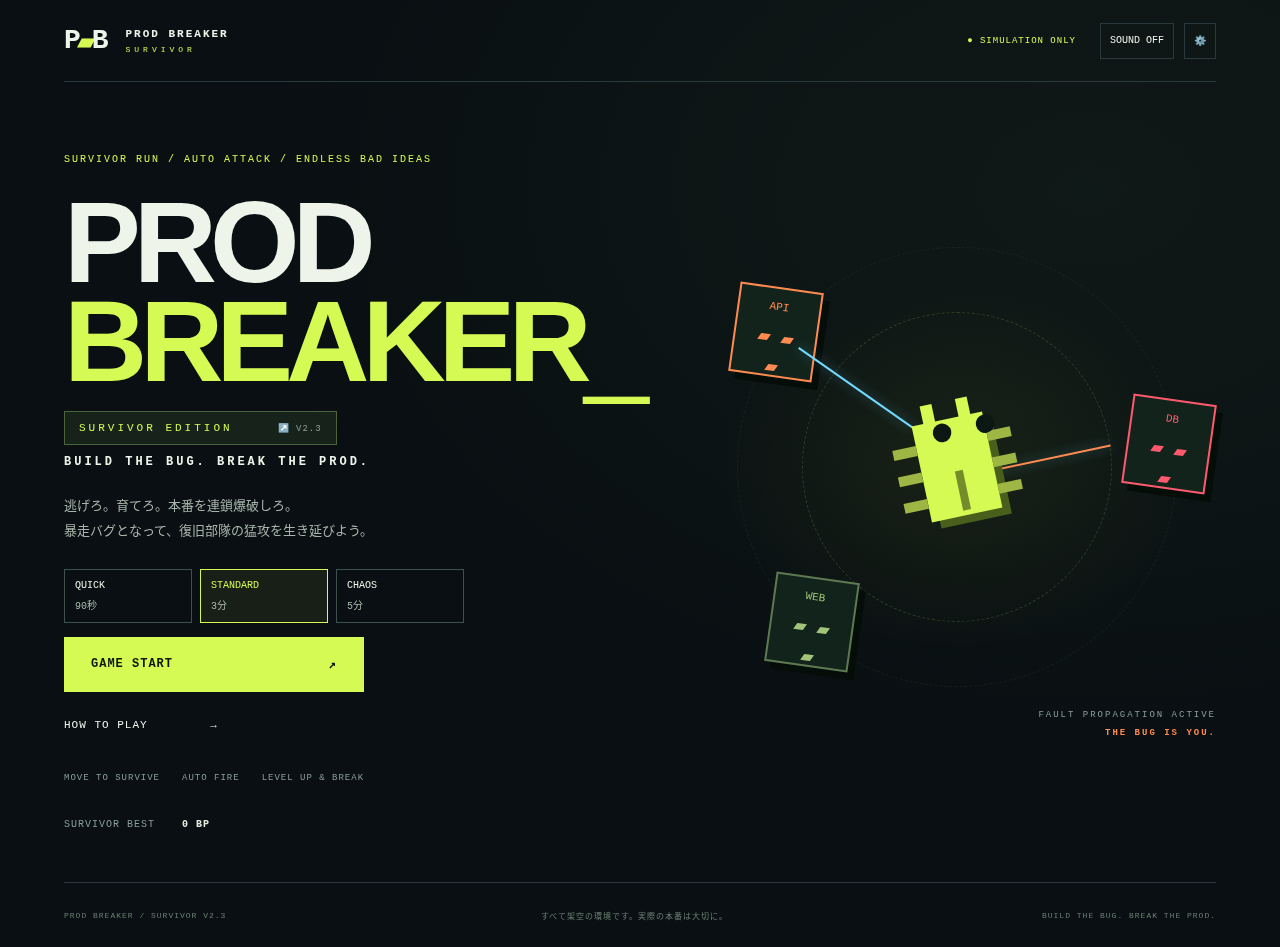
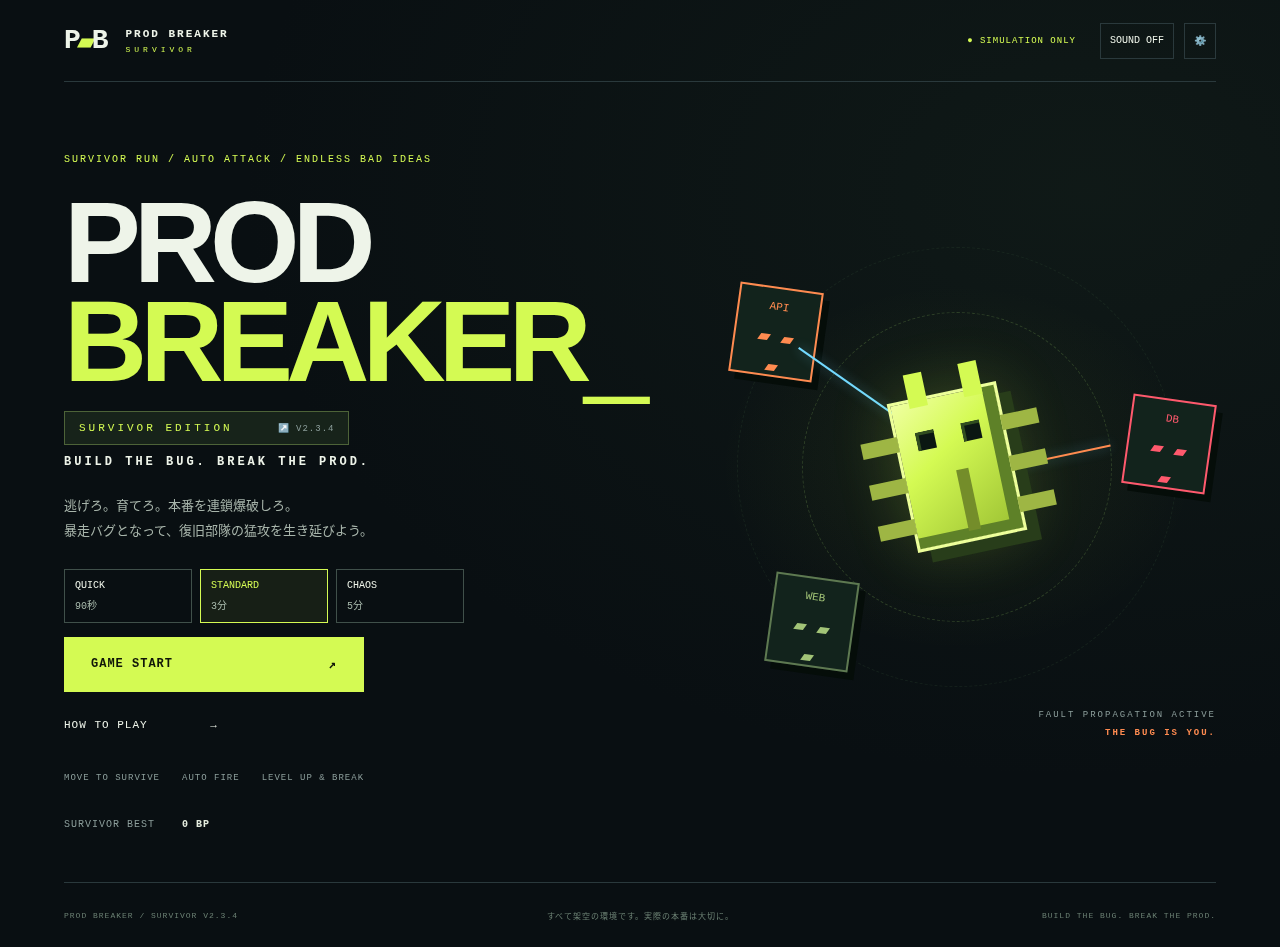
Feature the bug mascot on mobile and desktop home screens

Changed region(s): [[0.6562, 0.3675, 0.8438, 0.6125], [0.4375, 0.9493, 0.5625, 0.9799]]

diff --git a/src/app/globals.css b/src/app/globals.css
@@ -1532,3 +1532,107 @@ footer {
     margin: 3px 0;
   }
 }
+/* The same mischievous bug that appears in the arena is our home-screen mascot. */
+.pixel-bug {
+  background: linear-gradient(145deg, #efffa0 0%, #d4fa53 38%, #9abf32 100%);
+  border: 2px solid #edff9a;
+  box-shadow:
+    inset -8px -7px 0 #5e8128,
+    8px 8px 0 #283d1a,
+    0 0 42px #c7f94b33;
+  animation: mascot-float 3.6s ease-in-out infinite;
+}
+.pixel-bug b {
+  text-shadow: 0 1px #ecffad;
+}
+@keyframes mascot-float {
+  0%,
+  100% {
+    translate: 0 0;
+  }
+  50% {
+    translate: 0 -8px;
+  }
+}
+@media (max-width: 700px), (hover: none) and (pointer: coarse) {
+  .survivor .title-screen .hero-art {
+    display: block;
+    width: 112px;
+    height: 112px;
+    top: auto;
+    right: 8px;
+    bottom: 28px;
+    background: radial-gradient(circle, #c9ed4240, transparent 70%);
+    opacity: 1;
+  }
+  .survivor .title-screen .hero-art .orbit,
+  .survivor .title-screen .hero-art .hero-server,
+  .survivor .title-screen .hero-art .hero-beam,
+  .survivor .title-screen .hero-art .hero-caption {
+    display: none;
+  }
+  .survivor .title-screen .pixel-bug {
+    scale: none;
+    transform-origin: center;
+    transform: translate(-50%, -50%) rotate(-10deg) scale(0.72);
+  }
+}
+@media (hover: none) and (pointer: coarse) and (orientation: landscape) and (max-height: 500px) {
+  .survivor .title-screen .hero-art {
+    width: 100px;
+    height: 100px;
+    right: 8px;
+    bottom: 4px;
+  }
+  .survivor .title-screen .pixel-bug {
+    transform: translate(-50%, -50%) rotate(-10deg) scale(0.6);
+  }
+}
+.pixel-bug b {
+  display: block;
+  top: 0;
+  left: 0;
+  width: 100%;
+  height: 100%;
+  font-size: 0;
+  text-shadow: none;
+}
+.pixel-bug b::before,
+.pixel-bug b::after {
+  content: "";
+  position: absolute;
+  top: 20px;
+  left: 12px;
+  width: 12px;
+  height: 12px;
+  background: #0b1712;
+  box-shadow: inset 2px 2px #314d20;
+}
+.pixel-bug b::after {
+  left: 42px;
+}
+@media (max-width: 700px), (hover: none) and (pointer: coarse) {
+  .survivor .title-screen .hero-art {
+    width: 150px;
+    height: 150px;
+    bottom: max(28px, calc(30svh - 142px));
+  }
+  .survivor .title-screen .pixel-bug {
+    transform: translate(-50%, -50%) rotate(-10deg) scale(0.95);
+  }
+}
+@media (hover: none) and (pointer: coarse) and (orientation: landscape) and (max-height: 500px) {
+  .survivor .title-screen .hero-art {
+    width: 130px;
+    height: 130px;
+    bottom: 0;
+  }
+  .survivor .title-screen .pixel-bug {
+    transform: translate(-50%, -50%) rotate(-10deg) scale(0.75);
+  }
+}
+@media (min-width: 701px) and (hover: hover) {
+  .hero-art > .pixel-bug {
+    transform: translate(-50%, -50%) rotate(-12deg) scale(1.55);
+  }
+}

diff --git a/tests/e2e/game.spec.ts b/tests/e2e/game.spec.ts
@@ -406,6 +406,32 @@ test("home controls fit without vertical scrolling on compact and landscape phon
     await page.goto("/?seed=42");
     await page.screenshot({ path: `test-results/home-${viewport.width}.png` });
     await expect(
+      page.getByRole("img", { name: "ゲームの主人公、暴走バグ" }),
+    ).toBeVisible();
+    const mascot = await page.locator(".pixel-bug").boundingBox();
+    expect(mascot).not.toBeNull();
+    expect(mascot!.x).toBeGreaterThanOrEqual(0);
+    expect(mascot!.y).toBeGreaterThanOrEqual(0);
+    expect(mascot!.x + mascot!.width).toBeLessThanOrEqual(viewport.width);
+    expect(mascot!.y + mascot!.height).toBeLessThanOrEqual(viewport.height);
+    const overlapsControl = await page.evaluate(() => {
+      const bug = document.querySelector(".pixel-bug")!.getBoundingClientRect();
+      return [
+        ...document.querySelectorAll(
+          ".title-screen button, .site-header button",
+        ),
+      ].some((el) => {
+        const button = el.getBoundingClientRect();
+        return (
+          bug.left < button.right &&
+          bug.right > button.left &&
+          bug.top < button.bottom &&
+          bug.bottom > button.top
+        );
+      });
+    });
+    expect(overlapsControl).toBe(false);
+    await expect(
       page.getByRole("button", { name: /GAME START/ }),
     ).toBeVisible();
     const dimensions = await page.evaluate(() => ({
@@ -460,4 +486,24 @@ test("gameplay omits the redundant instruction and keeps PANIC accessible", asyn
       path: "test-results/game-no-instruction.png",
       fullPage: true,
     });
+});
+test("home mascot stays visible, respects reduced motion and does not obstruct starting", async ({
+  page,
+}, info) => {
+  await page.emulateMedia({ reducedMotion: "reduce" });
+  await page.goto("/?seed=42");
+  await expect(
+    page.getByRole("img", { name: "ゲームの主人公、暴走バグ" }),
+  ).toBeVisible();
+  expect(
+    await page
+      .locator(".pixel-bug")
+      .evaluate((el) => getComputedStyle(el).animationName),
+  ).toBe("none");
+  await page.screenshot({
+    path: `test-results/mascot-${info.project.name}.png`,
+    fullPage: true,
+  });
+  await page.getByRole("button", { name: /GAME START/ }).click();
+  await expect(page.getByTestId("timer")).toBeVisible();
 });

diff --git a/src/components/Game.tsx b/src/components/Game.tsx
@@ -373,7 +373,7 @@ export default function Game() {
               </span>
             </h1>
             <div className="edition">
-              SURVIVOR EDITION <span>↗ V2.3.3</span>
+              SURVIVOR EDITION <span>↗ V2.3.4</span>
             </div>
             <p className="tagline">BUILD THE BUG. BREAK THE PROD.</p>
             <p className="intro">
@@ -420,7 +420,11 @@ export default function Game() {
               <span>AUTO FIRE</span>
               <span>LEVEL UP & BREAK</span>
             </div>
-            <div className="hero-art" aria-hidden="true">
+            <div
+              className="hero-art"
+              role="img"
+              aria-label="ゲームの主人公、暴走バグ"
+            >
               <div className="orbit orbit-one" />
               <div className="orbit orbit-two" />
               <div className="pixel-bug">
@@ -701,7 +705,7 @@ export default function Game() {
           </section>
         )}
         <footer>
-          <span>PROD BREAKER / SURVIVOR V2.3.3</span>
+          <span>PROD BREAKER / SURVIVOR V2.3.4</span>
           <span>すべて架空の環境です。実際の本番は大切に。</span>
           <span>BUILD THE BUG. BREAK THE PROD.</span>
         </footer>

diff --git a/README.md b/README.md
@@ -4,6 +4,8 @@
 
 暴走バグを操作し、架空のデータセンターを連鎖爆破する90秒・3分・5分から選べるサバイバーゲーム。v2でターン制カード配置からリアルタイムの移動・自動攻撃・成長へ変更しました。
 
+主人公の暴走バグが、ホーム画面でもプレイヤーを迎えます。
+
 **プレイ:** https://prod-breaker.vercel.app/
 
 **ソース:** https://github.com/SSsan-00/prod-breaker
